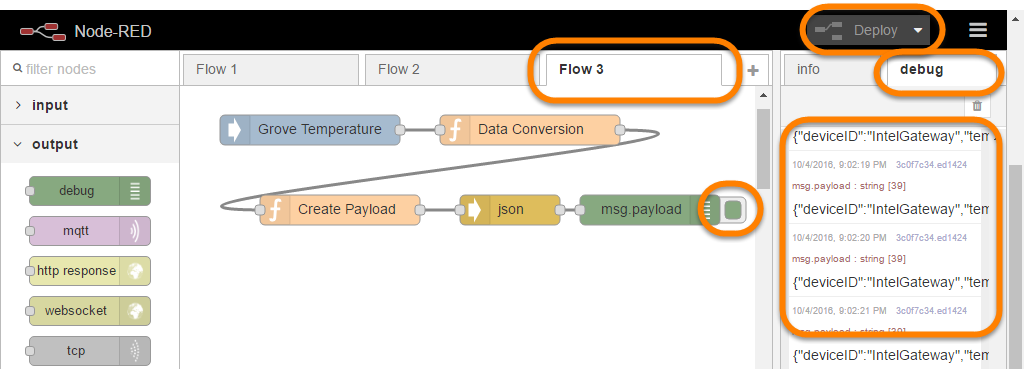
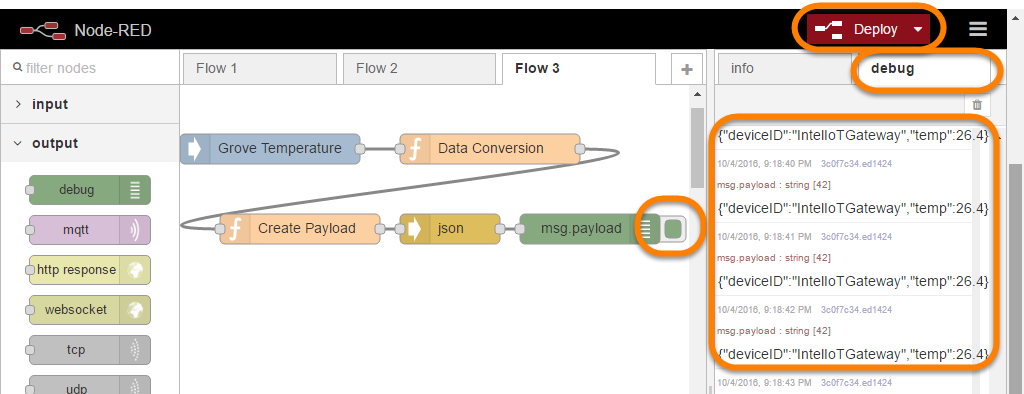
cleanup

diff --git a/HOLs/readme.md b/HOLs/readme.md
@@ -282,7 +282,7 @@ We will create Node-red flow to get data from temperature sensor and display it 
         - Function - **Use the following code**
 
             ````javascript
-            var gateway = "IntelGateway";
+            var gateway = "IntelIoTGateway";
             return {
                 payload: {
                     deviceID: gateway,
@@ -320,6 +320,10 @@ We will create Node-red flow to get data from temperature sensor and display it 
     - Click the "**Deploy**" button
     - Once you have deployed "**Flow 3**" ensure that it's "**msg.payload*"" debug has it's debug messages enabled
     - Watch for the debug messages to appear on the "**debug**" tab.
+
+    > **Note**: If you can't see the entire debug message on the debug tab, you can drag the splitter bar between the "**Visual Editor**" and "**debug**" tab panels to expand the view, or you can scroll to the right on the "**debug**" tab using the horizontal scroll bar at the bottom of it.
+
+    > **Note**: You can touch the temperature sensor (or blow on it) to see the value of the "**temp**" displayed change on the "**debug**" tab.   
 
     ![Flow 3 Debug Messages](images/05110-Flow3DebugMessages.png)
 
